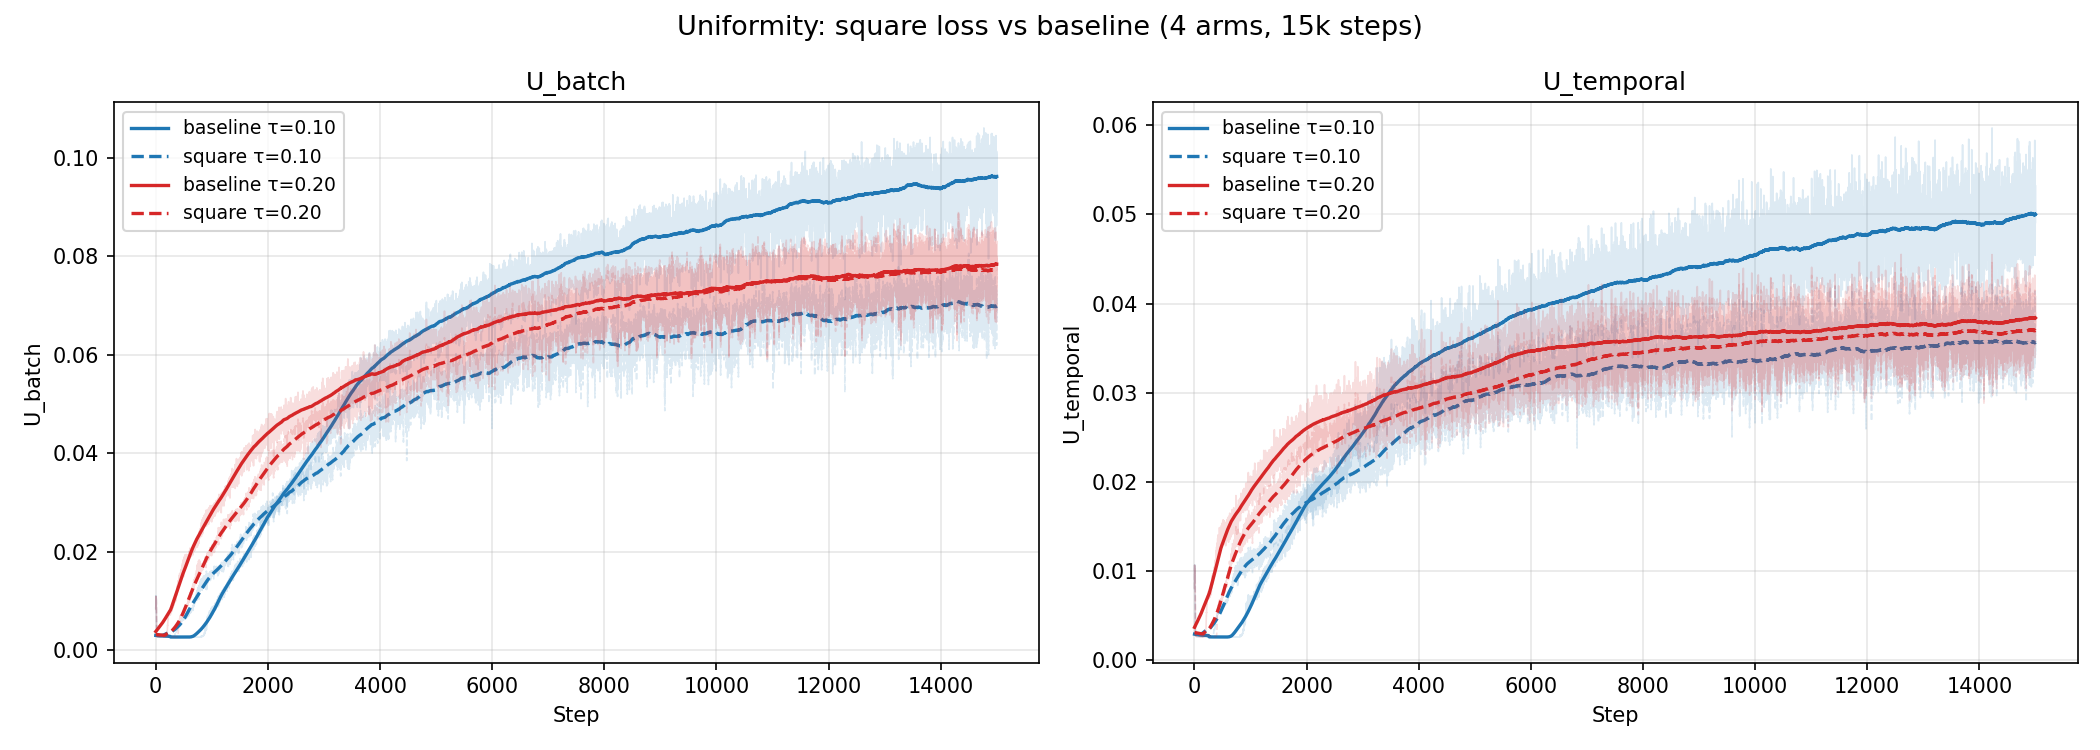
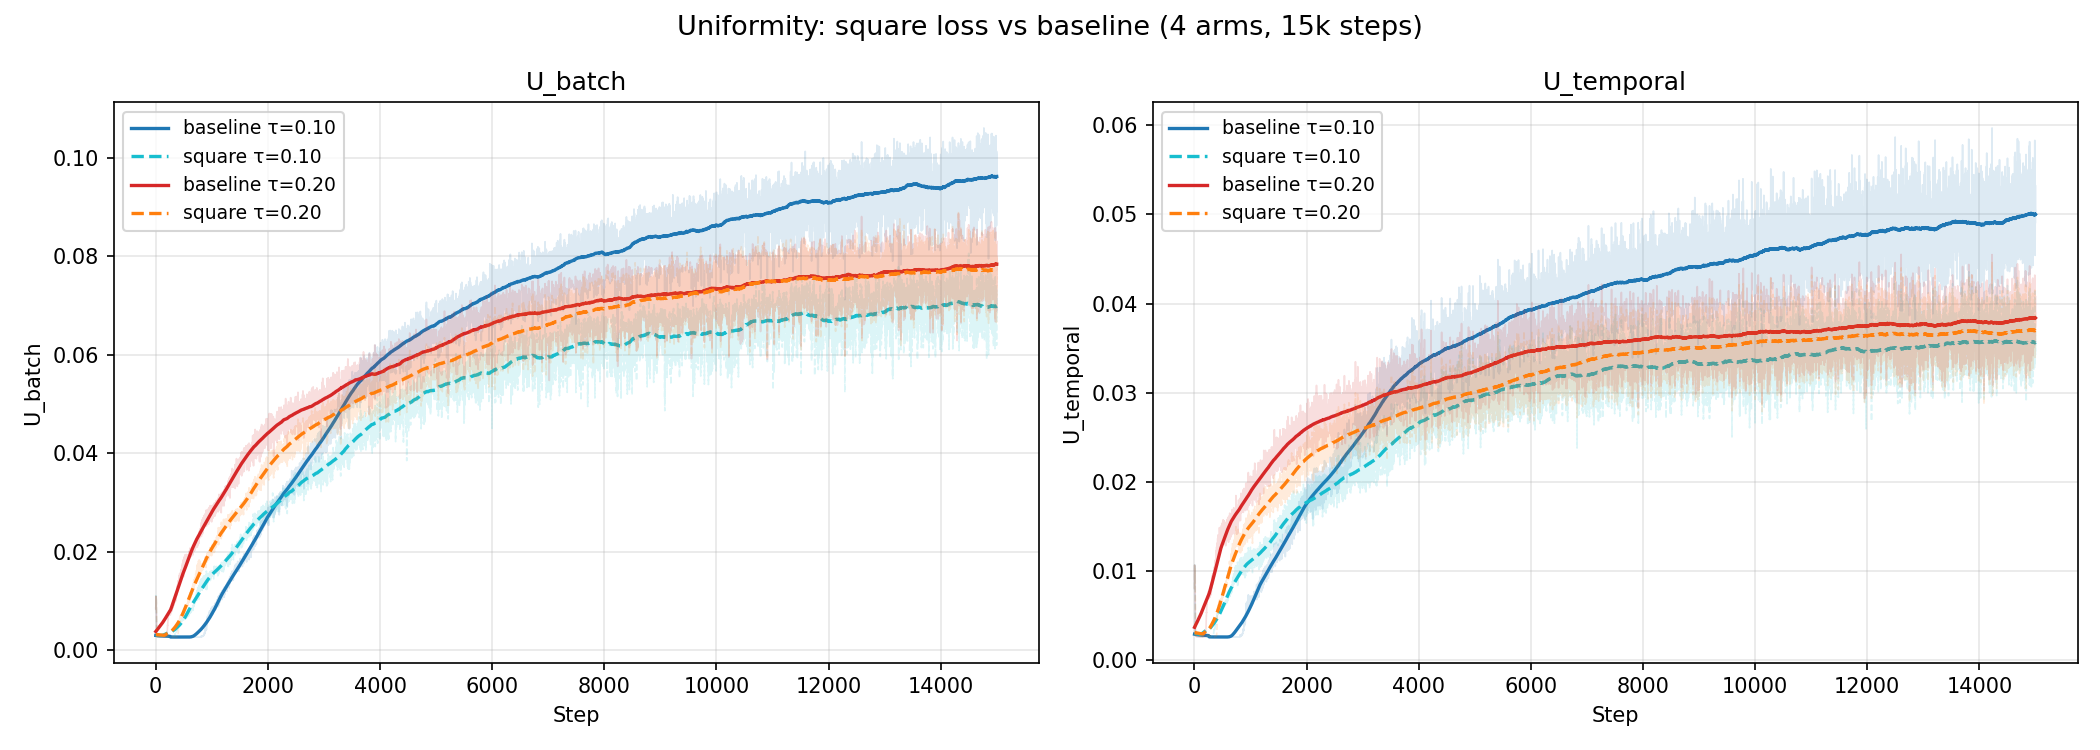
plot(loss-extensions): 4 distinct hues + tighter Y-axes
Old plot reused only blue and red across the 4 arms (baseline/square
within each τ shared a hue). With noisy curves the two reds were nearly
indistinguishable. Switch to 4 separate hues:
- baseline τ=0.10: blue (#1f77b4)
- square   τ=0.10: cyan (#17becf)
- baseline τ=0.20: red  (#d62728)
- square   τ=0.20: orange (#ff7f0e)

τ stays color-paired (cool=0.10, warm=0.20); solid vs dashed still
distinguishes baseline vs square within each τ.

Y-axes tightened: AUC (0.86, 0.91), Top-1 (0.70, 0.78).

diff --git a/experiments/2026-05-09_exp_loss_extensions/scripts/plot_4arm_comparison.py b/experiments/2026-05-09_exp_loss_extensions/scripts/plot_4arm_comparison.py
@@ -35,11 +35,14 @@ for name, path in paths.items():
     print(f"{name}: {len(df)} rows, steps {df.step.min()}–{df.step.max()}")
 
 # --- Style ---
+# 4 distinct hues so noisy curves don't blend.
+# τ=0.10: cool (blue/cyan); τ=0.20: warm (red/orange).
+# Solid = baseline, dashed = square (loss family within τ).
 styles = {
-    "baseline_0.10": {"color": "tab:blue",  "linestyle": "-",  "label": "baseline τ=0.10"},
-    "square_0.10":   {"color": "tab:blue",  "linestyle": "--", "label": "square τ=0.10"},
-    "baseline_0.20": {"color": "tab:red",   "linestyle": "-",  "label": "baseline τ=0.20"},
-    "square_0.20":   {"color": "tab:red",   "linestyle": "--", "label": "square τ=0.20"},
+    "baseline_0.10": {"color": "#1f77b4", "linestyle": "-",  "label": "baseline τ=0.10"},  # blue
+    "square_0.10":   {"color": "#17becf", "linestyle": "--", "label": "square τ=0.10"},    # cyan
+    "baseline_0.20": {"color": "#d62728", "linestyle": "-",  "label": "baseline τ=0.20"},  # red
+    "square_0.20":   {"color": "#ff7f0e", "linestyle": "--", "label": "square τ=0.20"},    # orange
 }
 
 ARM_ORDER = ["baseline_0.10", "square_0.10", "baseline_0.20", "square_0.20"]
@@ -61,8 +64,8 @@ for arm in ARM_ORDER:
     df = dfs[arm]
     st = styles[arm]
     for ax, col, ylim in [
-        (axes[0], "auc",  (0.84, 0.95)),
-        (axes[1], "top1", (0.65, 0.82)),
+        (axes[0], "auc",  (0.86, 0.91)),
+        (axes[1], "top1", (0.70, 0.78)),
     ]:
         raw = df[col]
         sm  = rolling_mean(raw, WINDOW)
@@ -72,8 +75,8 @@ for arm in ARM_ORDER:
                 label=st["label"], linewidth=1.6)
 
 for ax, col, ylim, title in [
-    (axes[0], "auc",  (0.84, 0.95), "AUC"),
-    (axes[1], "top1", (0.65, 0.82), "Top-1"),
+    (axes[0], "auc",  (0.86, 0.91), "AUC"),
+    (axes[1], "top1", (0.70, 0.78), "Top-1"),
 ]:
     ax.set_ylim(ylim)
     ax.set_xlabel("Step")
